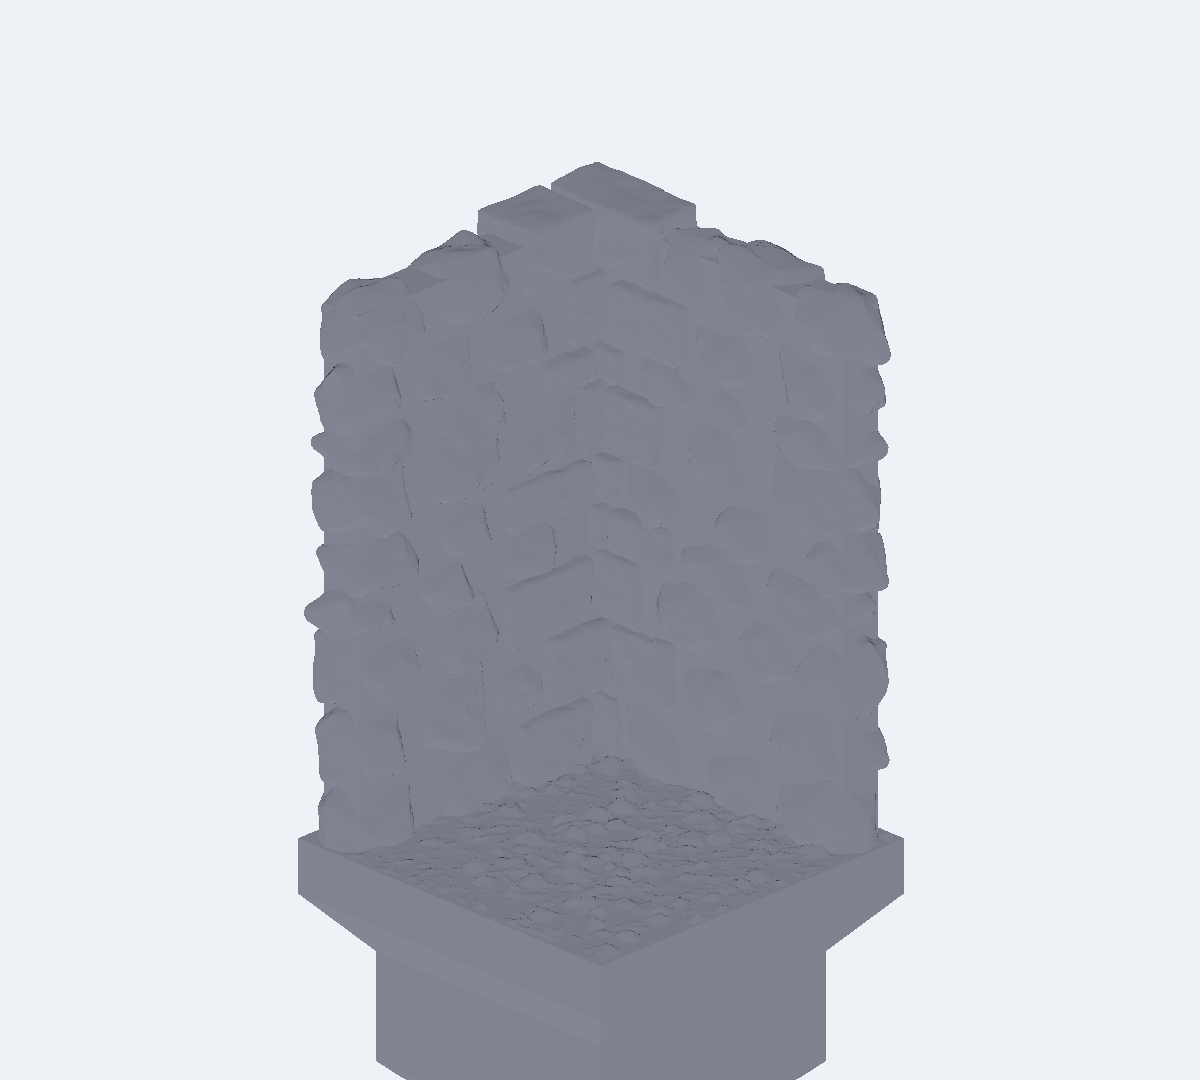
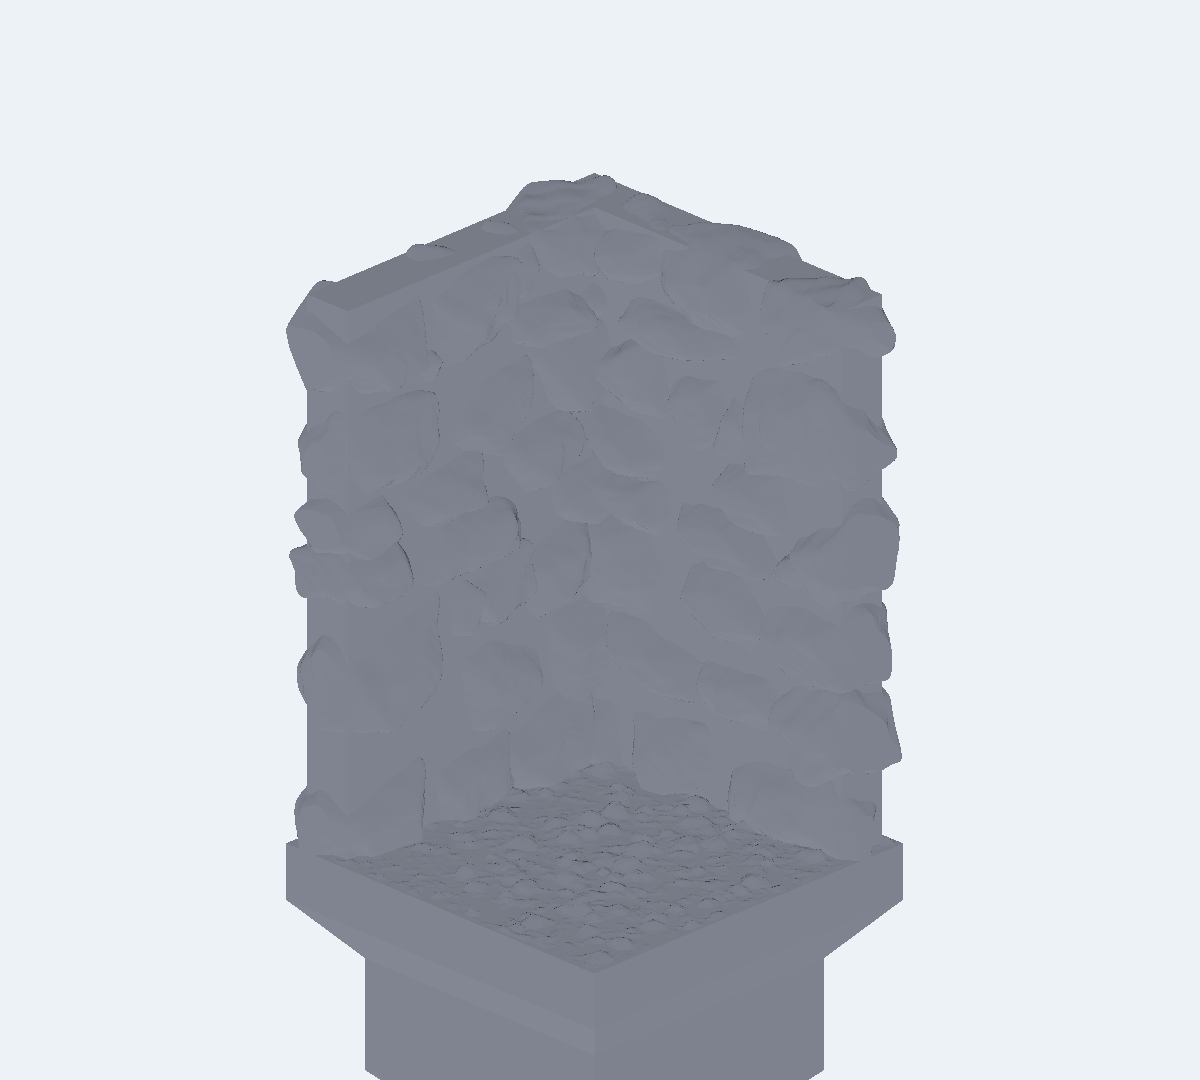
Walls: fieldstone rework (E7) — flat slabs, stone corners, kiss packing
Round-3 verdict fixes (Shawn: flatter stones / no bricks in corner /
nearly touching / more irregular sizes):

- slab squash (_FLATTEN): support directions compressed vertically so
  every stone is a flat-laid slab, not an egg
- corners are the same fieldstone unit at high blockiness; _block_mesh
  bricks removed from this wall entirely
- size irregularity from the grid: wider course/bay ranges + new _cells
  chassis hook merging ~1/5 of cells into double-height throughstones;
  under-filling cells is the WRONG mechanism (exposes flat core =
  "pebbles glued on a slab")
- kiss packing: _PACK_COMP_MM 2.1 in all three axes — the y (thickness)
  compensation was missing, so roundover+blur left stones nearly flush
  with the core and the wall read flat with faint lumps; joint 0.4

Chassis: _cells + face_recess_mm are now subclass hooks on CutStoneWall.

Claude-Session: https://claude.ai/code/session_01N52X1qVoRMnzi1jxnvUHEL

diff --git a/src/dharmatiles/walls/fieldstone.py b/src/dharmatiles/walls/fieldstone.py
@@ -3,20 +3,27 @@ Fieldstone / drystone wall — walls campaign family 3.
 
 Same chassis as :class:`CutStoneWall` (spine → segments, courses/bays
 with bond offset, quoin alternation, recessed core, seat/stamp/clip);
-only the UNIT changes, per the design doc ("same block-instancing,
-different layout").  Reference read (`docs/reference/walls/README.md`,
-Hirst m70): rough courses of rounded/angular stones with big size
-variety, DEEP shadow joints (no mortar — the recessed core reads as
-darkness between stones), squared quoins at corners, and larger
-flat-topped coping stones capping the wall.
+the UNIT and the cell field change.  Reference read
+(`docs/reference/walls/README.md` drystone photo, Hirst m70): **flat
+slabby stones laid on their beds** — width ≫ height on the face — in
+rough courses, packed to nearly touching with thin dark shadow joints
+(no mortar), big size variety with occasional throughstones spanning
+two courses, and the corner built from the same stones, just squarer.
 
-Each stone is the convex hull of Fibonacci-sampled support points on a
-blend between the cell's inscribed ellipsoid and the cell box —
-``blockiness`` 0 = ovoid river stone, 1 = squared block — with per-point
-lumpiness, so one wall mixes rounded and angular stones the way a real
-drystone wall does.  Stones bulge vertically past their course band
-into the deep joints (grid broken); corner cells keep the chipped-box
-quoin (real drystone corners are built from squared stones).
+Shawn round-3 verdict on the first cut ("terrible"): stones were too
+equant and egg-like, the corner kept cut-stone BRICKS, joints gaped,
+sizes were uniform.  This rework:
+
+- stones are generated as slabs (vertical support directions squashed)
+  so every stone reads laid-flat, like the m70 strips;
+- corners use the same fieldstone unit at high blockiness — no
+  `_block_mesh` bricks anywhere in this wall;
+- packing: stones overshoot their cells and are shaved back by the
+  rounding (`_PACK_COMP_MM`), joints thin (`joint_mm` 0.5);
+- size irregularity: bay range widened AND a `_cells` post-pass merges
+  ~1/7 of cells with the cell above into a double-height throughstone,
+  plus per-stone height jitter down to ~55 % of the course (small
+  pinning stones between big ones).
 """
 from __future__ import annotations
 
@@ -24,46 +31,50 @@ import numpy as np
 import trimesh
 
 from ..scatter.stones import _blur_remesh, _relief_field, _round_edges
-from .masonry import CutStoneWall, _Cell, _block_mesh, _RELIEF_WAVES
+from .masonry import CutStoneWall, _Cell, _Seg, _RELIEF_WAVES
 
 # ── Iteration knobs (module constants while prototyping) ─────────────────────
-# Packing rules the read: inscribed ellipsoids fill only ~half the cell
-# and the wall read "pebbles stuck on a slab" (E6 find) — stones must be
-# blocky enough to reach their cell walls, with the blend rounding only
-# the corners.
-_BLOCKINESS       = (0.38, 0.75)  # ellipsoid↔box blend range for body stones
-_CAP_BLOCKINESS   = (0.55, 0.80)  # coping stones are squarer and flat-topped
-_LUMP             = (0.93, 1.0)   # per-point radius jitter
+_BLOCKINESS       = (0.30, 0.62)  # ellipsoid↔box blend for body stones
+_QUOIN_BLOCKINESS = (0.62, 0.85)  # corner stones: same unit, squarer
+_CAP_BLOCKINESS   = (0.50, 0.75)  # coping stones flat-topped and squarer
+_LUMP             = (0.90, 1.0)   # per-point radius jitter
 _DIR_JITTER       = 0.12          # support-direction jitter
-_BULGE_MM         = 0.45          # stones may swell past their course band
-                                  # into the deep joints (up and down)
-_QUOIN_CHAMFER_MM = 0.9           # cap on the quoin bottom chamfer: the
-                                  # inherited reveal-sized chamfer (1.7)
-                                  # stacked into chevrons up the arris
-_PACK_COMP_MM     = 1.6           # oversize each stone body by this before
-                                  # rounding: roundover + blur-remesh shave
-                                  # ~this much total, which reopened the
-                                  # joints into flat core expanses (E6 find —
-                                  # packed stones, thin dark joints, is the
-                                  # whole drystone read)
-_CAP_CLAMP_FRAC   = 0.90          # coping top points clamp to this × half-
-                                  # height → flat cap facet, textured stone top
-_REMESH_SIGMA     = 0.9           # aged read (stones convention), softer than
-                                  # the cut-block 0.7
+_FLATTEN          = (0.50, 0.80)  # vertical squash of support directions:
+                                  # stones are SLABS laid on their beds —
+                                  # the round-3 "flatter stones" call.
+                                  # Applied in direction space, so the hull
+                                  # fills the (short) cell height while the
+                                  # silhouette stays wide
+_PACK_COMP_MM     = 2.1           # oversize before rounding; roundover +
+                                  # blur-remesh shave ~1.5 mm back and the
+                                  # remainder makes neighbours KISS — size
+                                  # irregularity must come from the grid
+                                  # (courses/bays/throughstones), never from
+                                  # under-filling cells: an under-filled cell
+                                  # exposes flat core, which reads "pebbles
+                                  # glued on a slab" (round-3 regression)
+_BULGE_MM         = 0.35          # residual vertical swell into joints
+_THROUGH_FRAC     = 0.20          # fraction of eligible cells merged with
+                                  # the cell above into a throughstone
+_REMESH_SIGMA     = 0.9           # aged read (stones convention)
 
 
 def _fieldstone_mesh(lx: float, ly: float, lz: float, blockiness: float,
                      flat_top: bool, roundover_mm: float, relief_mm: float,
                      relief_wl: tuple[float, float],
                      rng: np.random.Generator) -> trimesh.Trimesh:
-    """One lumpy stone filling the local box [0,lx]×[0,ly]×[0,lz]."""
-    M = int(rng.integers(12, 17))
+    """One flat-bedded stone filling the local box [0,lx]×[0,ly]×[0,lz]."""
+    M = int(rng.integers(13, 18))
     i = np.arange(M) + 0.5
     phi   = np.arccos(1.0 - 2.0 * i / M)
     theta = np.pi * (1.0 + np.sqrt(5.0)) * i
     d = np.stack([np.sin(phi) * np.cos(theta),
                   np.sin(phi) * np.sin(theta), np.cos(phi)], axis=1)
     d += rng.normal(0.0, _DIR_JITTER, d.shape)
+    # Slab squash: compress vertical components so support points crowd
+    # the equator — the hull gets broad bed/top faces and short sides,
+    # the flat-laid read, regardless of the cell aspect.
+    d[:, 2] *= rng.uniform(*_FLATTEN)
     d /= np.linalg.norm(d, axis=1, keepdims=True) + 1e-12
 
     half = np.array([lx / 2.0, ly / 2.0, lz / 2.0])
@@ -73,7 +84,7 @@ def _fieldstone_mesh(lx: float, ly: float, lz: float, blockiness: float,
     r *= rng.uniform(*_LUMP, M)
     p = d * r[:, None]
     if flat_top:
-        p[:, 2] = np.minimum(p[:, 2], _CAP_CLAMP_FRAC * half[2])
+        p[:, 2] = np.minimum(p[:, 2], 0.90 * half[2])
     p += half
 
     hull = trimesh.convex.convex_hull(p)
@@ -100,18 +111,19 @@ class FieldstoneWall(CutStoneWall):
     Same spine convention and contracts as :class:`CutStoneWall`.
     """
 
-    yaw_max_deg:  float = 2.5     # stones sit less true than cut blocks
-    tilt_max_deg: float = 1.2
+    yaw_max_deg:    float = 2.5   # stones sit less true than cut blocks
+    tilt_max_deg:   float = 1.2
+    face_recess_mm: float = 0.45
 
     def __init__(self, spine, *,
-                 course_mm: tuple[float, float] = (3.8, 7.5),
-                 bay_mm:    tuple[float, float] = (5.5, 13.0),
-                 joint_mm:  float = 0.6,
-                 reveal_mm: float = 1.5,
-                 roundover_mm: float | None = 0.5,
+                 course_mm: tuple[float, float] = (3.2, 8.8),
+                 bay_mm:    tuple[float, float] = (4.5, 16.0),
+                 joint_mm:  float = 0.4,
+                 reveal_mm: float = 1.2,
+                 roundover_mm: float | None = 0.45,
                  relief_mm:    float | None = 0.12,
                  relief_wl:    tuple[float, float] | None = (2.0, 7.0),
-                 min_bond_mm:  float = 2.0,
+                 min_bond_mm:  float = 1.8,
                  **kwargs):
         super().__init__(spine, course_mm=course_mm, bay_mm=bay_mm,
                          joint_mm=joint_mm, reveal_mm=reveal_mm,
@@ -119,33 +131,86 @@ class FieldstoneWall(CutStoneWall):
                          relief_wl=relief_wl, min_bond_mm=min_bond_mm,
                          **kwargs)
 
+    # ── size irregularity: throughstone merges ───────────────────────────────
+    def _cells(self, segs: list[_Seg], T: float, H: float,
+               rng: np.random.Generator) -> list[_Cell]:
+        cells = super()._cells(segs, T, H, rng)
+        # Merge some cells with a cell in the course directly above into
+        # a double-height throughstone (drystone structure + the wide
+        # size read).  Candidates must overlap in t and neither cell may
+        # be already merged, a quoin, or the top course.
+        by_course: dict[tuple[int, int], list[_Cell]] = {}
+        for c in cells:
+            by_course.setdefault((c.key[0], c.seg), []).append(c)
+        taken: set[tuple] = set()
+        merged: list[_Cell] = []
+        drop:   set[tuple] = set()
+        for c in cells:
+            if (c.is_top or c.is_quoin or c.key in taken
+                    or rng.random() > _THROUGH_FRAC):
+                continue
+            above = by_course.get((c.key[0] + 1, c.seg), [])
+            for a in above:
+                if (a.is_quoin or a.key in taken
+                        or min(c.t1, a.t1) - max(c.t0, a.t0) < 3.0):
+                    continue
+                lo = max(c.t0, a.t0)
+                hi = min(c.t1, a.t1)
+                # The throughstone takes the overlap column; donor cells
+                # shrink away from it so neighbours stay in place.
+                merged.append(_Cell(
+                    seg=c.seg, t0=lo, t1=hi,
+                    end0='joint', end1='joint',
+                    z0=c.z0, z1=a.z1,
+                    is_top=a.is_top, is_bottom=c.is_bottom,
+                    key=(c.key[0], c.seg, c.key[2], 'through'),
+                ))
+                taken.add(c.key)
+                taken.add(a.key)
+                for donor in (c, a):
+                    if donor.t0 < lo - 1.0 or donor.t1 > hi + 1.0:
+                        # keep the wider remainder as a shrunken cell
+                        if donor.t0 < lo - 1.0:
+                            donor.t1 = lo
+                            donor.end1 = 'joint'
+                        else:
+                            donor.t0 = hi
+                            donor.end0 = 'joint'
+                    else:
+                        drop.add(donor.key)
+                break
+        out = [c for c in cells if c.key not in drop]
+        out.extend(merged)
+        return out
+
+    # ── the unit ─────────────────────────────────────────────────────────────
     def _unit_mesh(self, lx: float, ly: float, lz: float, chamfer: float,
                    cell: _Cell, rng: np.random.Generator) -> trimesh.Trimesh:
+        # Same fieldstone unit EVERYWHERE — corners just get squarer
+        # stones (round-3: "you've left bricks in the corner").
         if cell.is_quoin:
-            # Squared quoin stones at corners — how drystone is really
-            # built, and the corner keeps its crisp alternating arris.
-            # Built with the cut-stone 'chipped' params: the fieldstone
-            # roundover blunted every quoin into a soft nose set deep
-            # behind the adjacent run's face (E6 chevron artifact).
-            return _block_mesh(lx, ly, lz, min(chamfer, _QUOIN_CHAMFER_MM),
-                               0.55, 0.22, 0.07, (1.5, 6.0),
-                               cell.is_top, rng)
+            blockiness = rng.uniform(*_QUOIN_BLOCKINESS)
+        elif cell.is_top:
+            blockiness = rng.uniform(*_CAP_BLOCKINESS)
+        else:
+            blockiness = rng.uniform(*_BLOCKINESS)
 
-        flat_top = cell.is_top
-        blockiness = rng.uniform(*(_CAP_BLOCKINESS if flat_top
-                                   else _BLOCKINESS))
-        # Vertical bulge into the deep joints breaks the course grid;
-        # the cap plane and the embedded base stay respected.
         up = 0.0 if cell.is_top else rng.uniform(0.0, _BULGE_MM)
-        dn = (0.0 if cell.is_bottom else rng.uniform(0.0, _BULGE_MM))
-        # Pack compensation: build oversize, let rounding shave it back
-        # to the cell — the top course only grows downward (cap plane).
+        dn = 0.0 if cell.is_bottom else rng.uniform(0.0, _BULGE_MM)
+        # Compensate the rounding shave in ALL THREE axes.  y (thickness)
+        # matters most: without it every stone loses ~0.7 mm per face to
+        # roundover+blur and sits nearly flush with the core — the whole
+        # wall reads as a flat slab with faint lumps (round-4 find; the
+        # standalone strip test looked right because there was no core
+        # to compare against).
         cx = _PACK_COMP_MM
+        cy = _PACK_COMP_MM
         cz_up = 0.0 if cell.is_top else _PACK_COMP_MM / 2.0
         cz_dn = _PACK_COMP_MM / 2.0
-        body = _fieldstone_mesh(lx + cx, ly, lz + up + dn + cz_up + cz_dn,
-                                blockiness, flat_top,
+        body = _fieldstone_mesh(lx + cx, ly + cy,
+                                lz + up + dn + cz_up + cz_dn,
+                                blockiness, cell.is_top or cell.is_quoin,
                                 self.roundover_mm, self.relief_mm,
                                 self.relief_wl, rng)
-        body.apply_translation([-cx / 2.0, 0.0, -(dn + cz_dn)])
+        body.apply_translation([-cx / 2.0, -cy / 2.0, -(dn + cz_dn)])
         return body

diff --git a/src/dharmatiles/walls/masonry.py b/src/dharmatiles/walls/masonry.py
@@ -270,8 +270,9 @@ class CutStoneWall:
     """
 
     height_default_mm: float = 5.0
-    yaw_max_deg:  float = _YAW_MAX_DEG
-    tilt_max_deg: float = _TILT_MAX_DEG
+    yaw_max_deg:    float = _YAW_MAX_DEG
+    tilt_max_deg:   float = _TILT_MAX_DEG
+    face_recess_mm: float = _FACE_RECESS_MM
 
     def __init__(self, spine: list[tuple[float, float]], *,
                  thickness_mm: float = 7.0,
@@ -322,8 +323,7 @@ class CutStoneWall:
         T, H = self.thickness_mm, self.height_mm
 
         seat_z = self._seat_z(scene, segs)
-        cells  = _layout(segs, T, H, self.course_mm, self.bay_mm,
-                         self.min_bond_mm, rng)
+        cells  = self._cells(segs, T, H, rng)
 
         parts = self._core_boxes(segs, seat_z)
         for cell in cells:
@@ -340,6 +340,13 @@ class CutStoneWall:
         return [wall]
 
     # ── pieces ───────────────────────────────────────────────────────────────
+    def _cells(self, segs: list[_Seg], T: float, H: float,
+               rng: np.random.Generator) -> list[_Cell]:
+        """Block cells for the wall; subclass hook — FieldstoneWall
+        post-processes these (throughstone merges)."""
+        return _layout(segs, T, H, self.course_mm, self.bay_mm,
+                       self.min_bond_mm, rng)
+
     def _unit_mesh(self, lx: float, ly: float, lz: float, chamfer: float,
                    cell: _Cell, rng: np.random.Generator) -> trimesh.Trimesh:
         """One masonry unit in the local cell frame; subclass hook —
@@ -384,12 +391,13 @@ class CutStoneWall:
         seg = segs[cell.seg]
         j2  = self.joint_mm / 2.0
 
+        fr = self.face_recess_mm
         x0 = cell.t0 + (j2 if cell.end0 == 'joint'
-                        else rng.uniform(0.0, _FACE_RECESS_MM))
+                        else rng.uniform(0.0, fr))
         x1 = cell.t1 - (j2 if cell.end1 == 'joint'
-                        else rng.uniform(0.0, _FACE_RECESS_MM))
-        y0 = rng.uniform(0.0, _FACE_RECESS_MM)
-        y1 = self.thickness_mm - rng.uniform(0.0, _FACE_RECESS_MM)
+                        else rng.uniform(0.0, fr))
+        y0 = rng.uniform(0.0, fr)
+        y1 = self.thickness_mm - rng.uniform(0.0, fr)
         z0 = seat_z + (cell.z0 + j2 if not cell.is_bottom
                        else -self.embed_mm)
         z1 = seat_z + (cell.z1 - (0.0 if cell.is_top else j2))

diff --git a/docs/design/walls-coursed-masonry.md b/docs/design/walls-coursed-masonry.md
@@ -177,7 +177,8 @@ unioned surface — the DB set-13 signature).
 | E4 | joint 1.2, reveal 1.3, face-recess 0.6, per-block tilt ±0.7° | Joints read; each brick takes its own tone; corner quoins alternate correctly; shipped for judgment |
 | — | **Shawn round-2 verdict**: "incredible… beautiful" + five fixes | (2) ends textured, not flush-cut; (3) grass must not run up the wall face; (4) thinner mortar, bricks nearly touching; (5) raised shapes mid-face/top = hull plateau from full-extent face-centre points; (6) explore texture options |
 | E5 | Ends always 'face' (flush machinery deleted); joint 0.45; face centres pulled in ~0.5×chip (plateau gone by construction); grass `_CLIFF_CLAMP_MM` in thatch.py (support taller than 4 mm above substrate is cliff-class — drape/lift see at most the clamp); texture presets `chipped/worn/hewn/dressed` + walls-e5-textures comparison scene | Shawn: "this looks great" |
-| E6 | **FieldstoneWall** (family 3, `walls/fieldstone.py`): same chassis, unit = hull of Fibonacci points on an ellipsoid↔box blend (`blockiness`), lumpiness, vertical bulge into deep joints, flat coping cap, squared quoins. Three sub-iterations: (a) inscribed ellipsoids read "pebbles stuck on a slab" → blockiness up, joints tighter; (b) roundover+blur shave ~1.5 mm and reopen the joints → `_PACK_COMP_MM` oversizes each stone before rounding; (c) rounded BUTTING stones curve away from the corner arris leaving V-notches → both cells at a corner are quoin-class (squared, chipped-preset params) | pending Shawn |
+| E6 | **FieldstoneWall** (family 3, `walls/fieldstone.py`): same chassis, unit = hull of Fibonacci points on an ellipsoid↔box blend (`blockiness`), lumpiness, vertical bulge into deep joints, flat coping cap, squared quoins. Three sub-iterations: (a) inscribed ellipsoids read "pebbles stuck on a slab" → blockiness up, joints tighter; (b) roundover+blur shave ~1.5 mm and reopen the joints → `_PACK_COMP_MM` oversizes each stone before rounding; (c) rounded BUTTING stones curve away from the corner arris leaving V-notches → both cells at a corner are quoin-class (squared, chipped-preset params) | **Shawn: "terrible"** — flatter stones; stones (not bricks) in the corner; nearly touching; more irregular sizes |
+| E7 | Fieldstone rework per round-3: (a) slab squash of support directions (`_FLATTEN`) — stones are flat-laid slabs; (b) corner quoins are the same fieldstone unit at high blockiness, `_block_mesh` bricks removed from this wall; (c) size irregularity from the GRID (wider course/bay ranges + `_cells` post-pass merging ~1/5 of cells into double-height throughstones), never from under-filling — an under-filled cell exposes flat core = "pebbles glued on a slab" (re-found); (d) packing: `_PACK_COMP_MM` 2.1 applied in ALL THREE axes — y (thickness) compensation was missing, so roundover+blur left every stone nearly flush with the core and the wall read as a flat slab with faint lumps (the standalone strip test missed it: no core to compare against); joint 0.4 | pending Shawn |
 
 Implementation notes: blocks finish through `_blur_remesh` (σ 0.7) —
 `subdivide_to_size` leaves T-junctions that break the manifold union.
